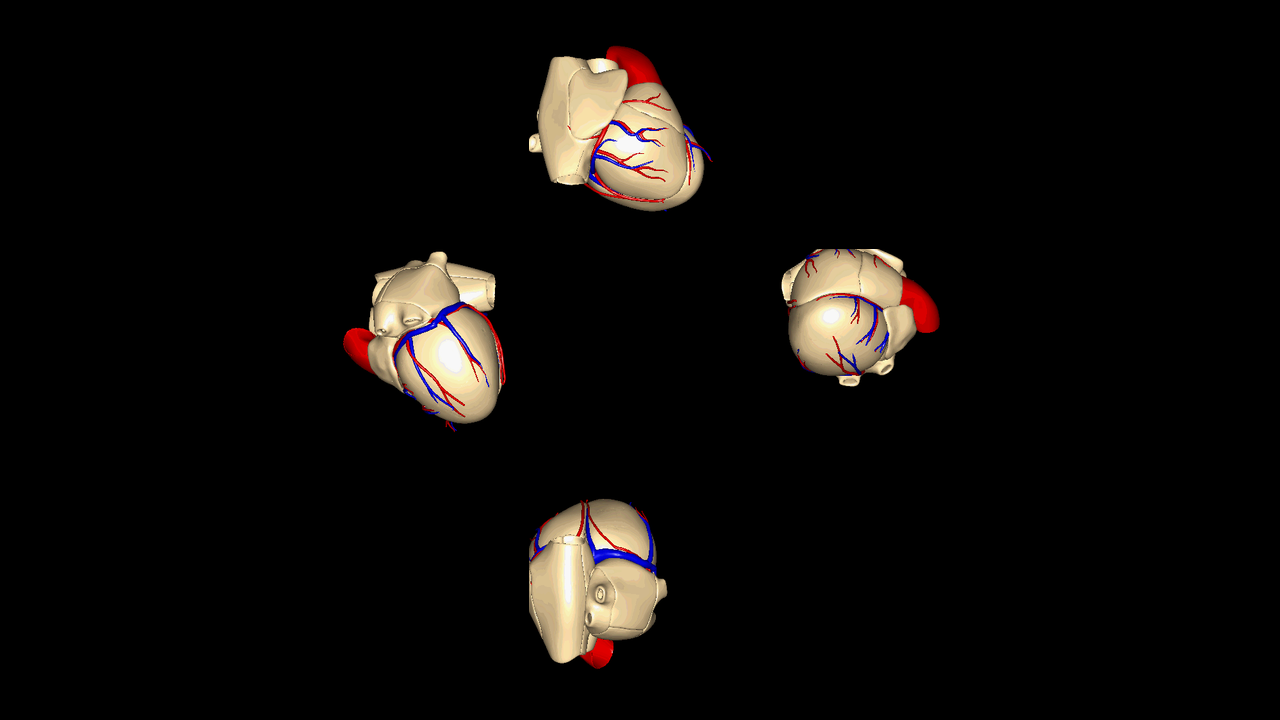
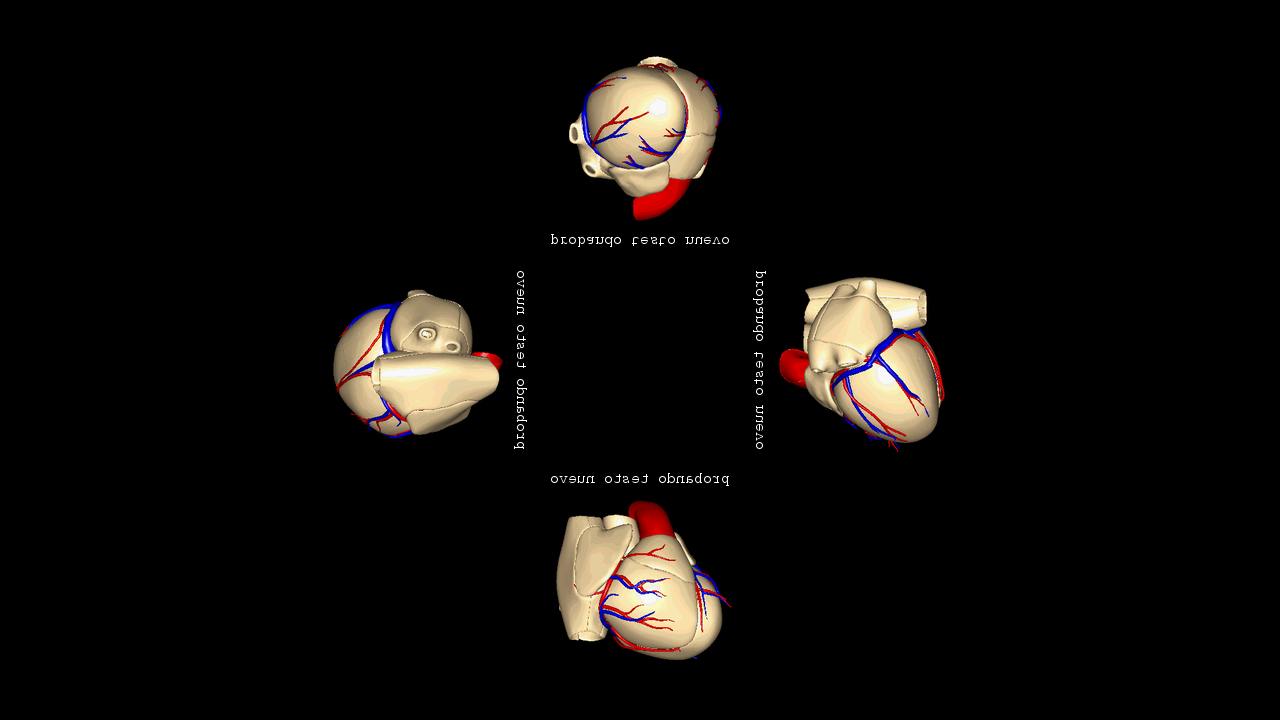
avance

diff --git a/Pruebas/caras4_frame.py b/Pruebas/caras4_frame.py
@@ -171,7 +171,7 @@ def centrar_4caras(caras): #centra
         if nueva_cara.size[0] != nueva_cara.size[1]:
             nuevo_size = np.max(nueva_cara.size)
 
-            imagen_a_guardar = Image.new('RGBA', (nuevo_size,nuevo_size), 'black')
+            imagen_a_guardar = Image.new('RGB', (nuevo_size,nuevo_size), 'black')
             imagen_a_guardar.paste(nueva_cara, ( (nuevo_size - nueva_cara.size[0]) /2, (nuevo_size - nueva_cara.size[1])/2 ))
         else:
             imagen_a_guardar = nueva_cara
@@ -254,7 +254,7 @@ def rotar_imagenes(caras):
             *caras: 4 caras
         *de_cabeza: 0 para proyeccion hacia arriba, 180 para proyeccion hacia abajo
     """     
-    de_cabeza = 0 #para que este de cabeza probar con: 180
+    de_cabeza = 180 #para que este de cabeza probar con: 180
 
     #ROTAR .---esto se podria paralelizar.. se demora unos 0.03 seg --fijo
     nuevas_caras = list()
@@ -281,6 +281,7 @@ def split_str(seq, chunk, skip_tail=False):
     elif not skip_tail and seq:
         lst.extend([seq])
     return lst
+
 
 #####-------CODIGO PARA MOVER-----------------------
 name_image = raw_input("Nombre de imagen GIF: ")
@@ -414,24 +415,36 @@ while(True):
         for cara in caras:
             print texto_proyeccion
 
+            imagen_texto = Image.new('RGB', cara.size,'black')
             fnt = ImageFont.truetype('/Pillow/Tests/fonts/FreeMono.ttf',15)
-            draw = ImageDraw.Draw(cara)
+
+            draw = ImageDraw.Draw(imagen_texto)
             w_draw, h_draw = draw.textsize(texto_proyeccion,font=fnt)
 
-            if w_draw > cara.size[0]: #subdividir en textos
-                veces = w_draw/cara.size[0]
+            if w_draw > imagen_texto.size[0]: #subdividir en textos
+                veces = w_draw/imagen_texto.size[0]
 
                 nuevo_string = split_str(texto_proyeccion,len(texto_proyeccion)/(veces+1))
                 texto_proyeccion = '\n'.join(nuevo_string)
                 w_draw, h_draw = draw.textsize(texto_proyeccion,font=fnt)
 
-            pos = ( (cara.size[0] - w_draw)/2, 0)
+            pos = ( (imagen_texto.size[0] - w_draw)/2, 0)
             draw.text(pos, texto_proyeccion,font=fnt, fill='white')
 
-            #draw.line( (cara.size[0]/2, 0) + (cara.size[0]/2,cara.size[1]/2) ,fill='white')
-            del draw
-        del texto_proyeccion
+            #para el efecto espejo del texto 
+            imagen_texto = ImageOps.mirror(imagen_texto)
 
+            nueva_cara = ImageChops.add(imagen_texto,cara) #probar add_modulo
+
+            #actualizar referencia
+            caras[caras.index(cara)] = nueva_cara
+    
+            #draw.line( (cara.size[0]/2, 0) + (cara.size[0]/2,cara.size[1]/2) ,fill='white')
+            cara.close()
+            imagen_texto.close()
+            del draw
+
+        del texto_proyeccion
 
     tiempo_rotar = time.time()
     #ROTAR
